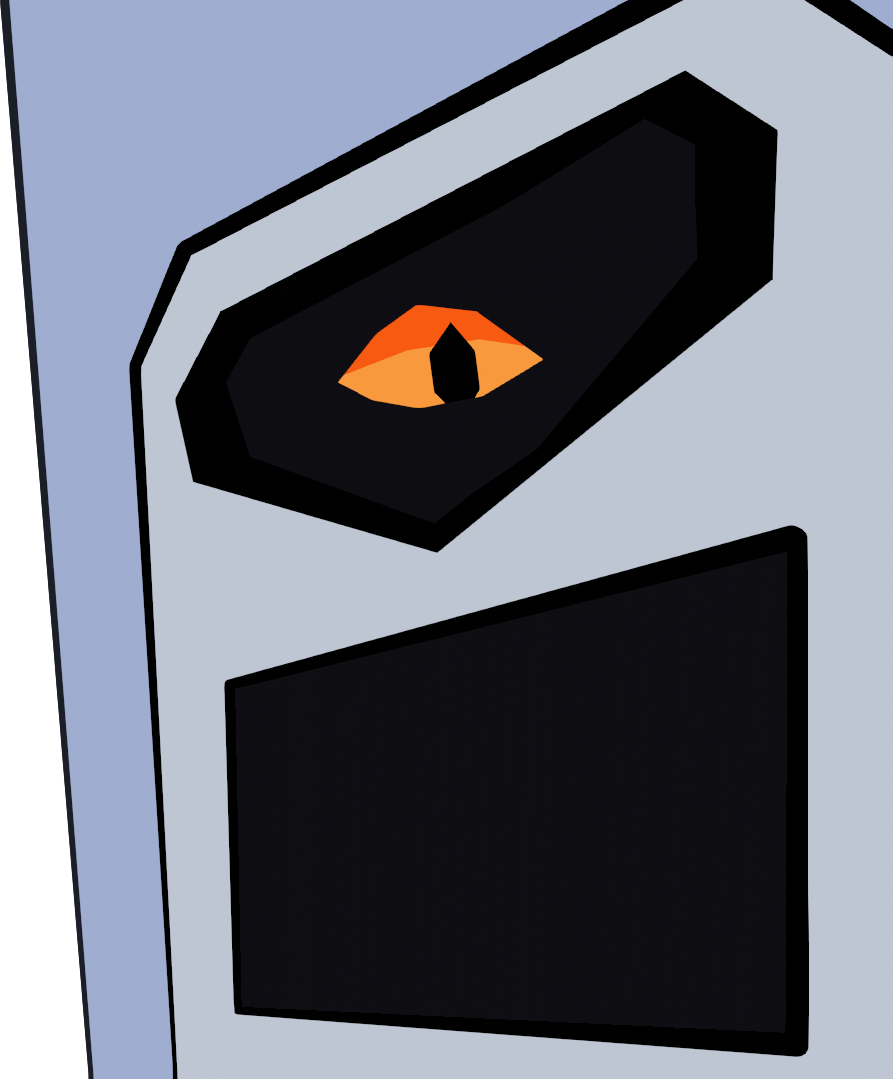
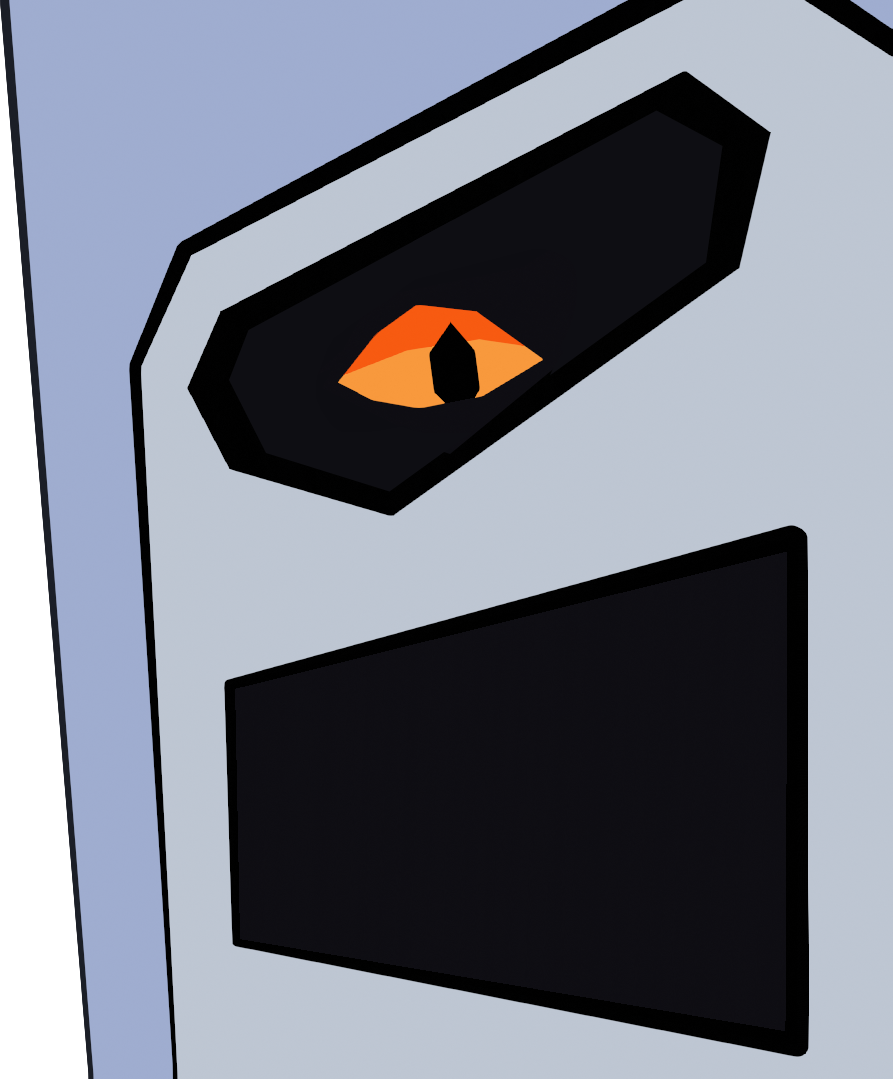
one actual bg done and all doors fixed

Changed region(s): [[0.1814, 0.0917, 0.8768, 0.5194], [0.2419, 0.8556, 0.8768, 0.9778]]

diff --git a/seasons/seasons.css b/seasons/seasons.css
@@ -34,7 +34,7 @@
     
     margin-top:10vh;
 	transform-origin: center right;
-    transform: perspective(100px) rotateY(-10deg) rotateY(4deg) rotateX(0deg) translate(30%, -41px);
+    transform: perspective(100px) rotateY(-4deg) rotateZ(-3deg) rotateX(-2deg) translate(27%, 30px);
 
     overflow: auto;
 
@@ -85,7 +85,7 @@
 
     right: 0px;
     padding: 0px;
-    width: 1000px;
+    width: 1150px;
     max-width: 100vw;
     max-height: 100vh;
     overflow: hidden;
